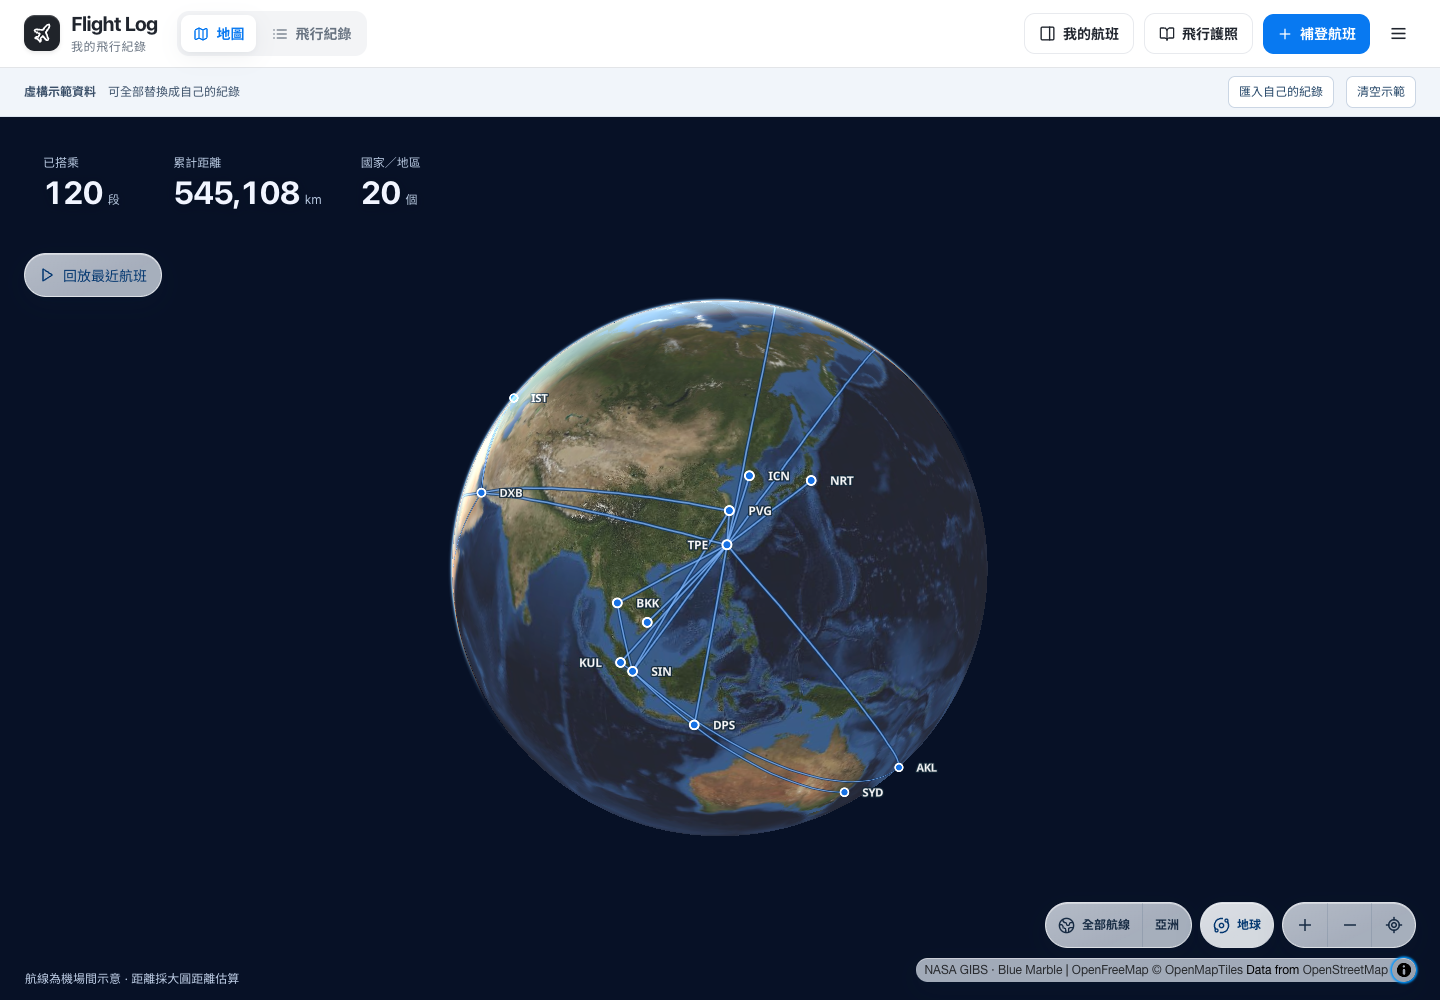
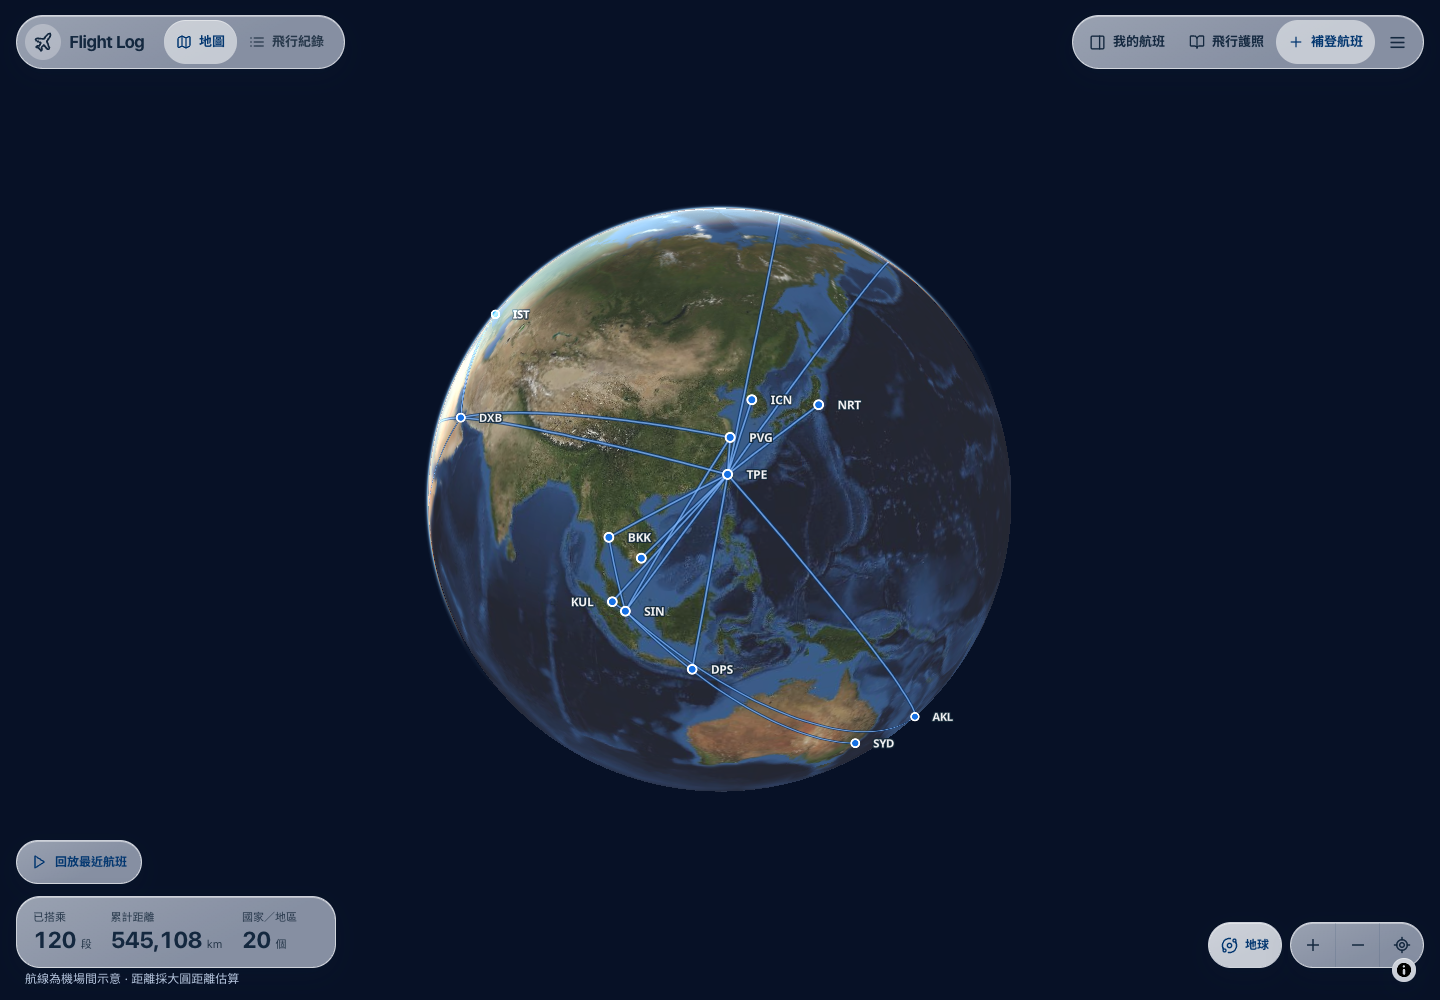
Refresh README with current UI, new media, CI and demo database guard
- English README is now the default, Chinese moved to README.zh-TW.md
- Retake all five media files from the live demo at the current glass UI
- Journey GIF now shows EK302 Dubai to Shanghai at 8x
- check-demo-deploy refuses a demo D1 id listed in DEMO_FORBIDDEN_D1_IDS
- Add GitHub Actions CI running typegen, check, test and build

diff --git a/README.md b/README.md
@@ -1,31 +1,57 @@
 # Flight Log
 
-把歷年航班變成可以回放、收藏與分享的旅行地圖
+Turn years of flights into a map you can replay, keep and share
 
-[線上示範](https://flights.vibeencode.dev/) · [旅程放映](https://flights.vibeencode.dev/journey/) · [開始使用](#先在本機跑起來) · [English](README.en.md)
+[Live demo](https://flights.vibeencode.dev/) · [Journey replay](https://flights.vibeencode.dev/journey/) · [Run it](#run-it) · [Self-host](docs/SELF-HOST.md) · [繁體中文](README.zh-TW.md)
 
-免安裝即可瀏覽五年、120 段虛構航班。公開示範站與私人版本分開，所有旅行紀錄都是假資料；匯入或編輯只保存在目前瀏覽器，不會上傳到示範站或影響其他訪客
+![Five years of fictional travel, 120 flights across 20 countries and regions, shown on a globe](docs/media/world-map.png)
 
-![Flight Log 五年虛構示範，120 段航班與 20 個國家／地區](docs/media/world-map.png)
+![Journey replay following EK302 from Dubai to Shanghai at 8x](docs/media/journey.gif)
 
-![飛機與鏡頭同步回放的實際操作](docs/media/journey.gif)
+Everything above is synthetic. The demo site ships 120 fictional flights, and anything you import stays in your own browser, so the demo server never sees your trips
 
-畫面使用合成示範資料。GIF 來自實際網站錄製，沒有使用 Flighty 的圖片或影片
+## Why I built this
 
-旅行地圖採 MapLibre、OpenFreeMap 與 NASA 地球影像。旅程放映會自動播放歷史航班，鏡頭跟隨飛機，以單一按鈕循環切換 1×、2×、4×、8×；搜尋城市、機場、日期或班號即可切換。播放與倍速整合成精簡玻璃控制列，點航線即可搜尋切換，也能完全收起
+I had seven years of flights buried in Trip.com confirmation emails and no way to see them as one picture. Flighty does this beautifully for live tracking, but my history was the part I cared about, and I wanted it on a page I own rather than inside someone else's account
 
-另外有獨立飛行清單、年度／累計護照、補登、更正與 JSON 備份。React / TypeScript / Cloudflare Workers + D1
+The first version read my own inbox and drew the routes. That turned out to be the easy part. The hard part was keeping real travel data out of a public repository while still having something worth showing, so the project split into separate lines. A private site holds my real log. This open source version runs on a fully synthetic dataset, and a cloud version with accounts is still in progress. Everything in this repository comes from the synthetic line
 
-**這是旅行紀錄工具。沒有即時航班查詢、GPS 航跡、航空公司訂位或自動跨裝置同步。** 非 Flighty 官方產品；不含其程式、圖片、字型或商標素材。
+One limitation stayed on purpose. There is no Gmail button inside the app, because holding mail credentials in a hobby project is a bad trade. Import goes through an AI assistant you already trust with your inbox, and the app only ever sees the JSON you decide to hand it
 
-## 四個步驟
+## What it does
 
-1. **下載 GitHub 專案／範本 ZIP。** Node 24，執行下方指令即可先看到五年虛構旅程。
-2. **連結自己的 Gmail。** 在支援 Gmail 的 AI 助手中授權，再使用 [Gmail 匯入流程](docs/GMAIL-IMPORT.md) 中的完整提示詞整理 Trip.com 訂單。網站本身不持有 Gmail 權限；目前沒有內建 Google 登入按鈕。
-3. **匯入整理結果。** 本機校驗、去重、排除取消、確認搭乘，從網頁備份功能導入。[資料格式](docs/IMPORT-FORMAT.md)
-4. **建立自己的網址。** 部署到自己 Cloudflare 帳號的 workers.dev，或接上自己的子網域。[部署步驟](docs/SELF-HOST.md)
+![Phone view of the travel map with the stats card and replay button](docs/media/mobile-map.png)
 
-## 先在本機跑起來
+Travel map on a globe or a flat map, with great circle routes between every airport you have flown
+
+![Journey replay paused over the Himalayas with the glass control bar](docs/media/journey.png)
+
+Journey replay that follows the aircraft, with one button cycling 1x, 2x, 4x and 8x, and a search box that takes an airport or a flight number
+
+![Passport card listing 120 flights, 545,108 km and 20 countries with flags](docs/media/passport.png)
+
+A passport card you can save as an image, per year or all time, with flags and distance
+
+Also: a separate flight list where you add or correct rows, JSON backup and restore, and a demo banner that makes clear which rows are fictional
+
+## How it works
+
+```mermaid
+flowchart LR
+  A[Booking emails] -->|AI assistant with Gmail access| B[flights.reviewed.json]
+  B -->|npm run import:prepare| C[flights.json + report.json + seed.sql]
+  C -->|Restore in browser| D[(localStorage)]
+  C -->|Optional: seed| E[(Cloudflare D1 flight_state)]
+  D --> F[React app]
+  E -->|GET /api/state| F
+  F --> G[MapLibre globe, journey replay, passport]
+```
+
+The front end is React and TypeScript on Vite. The worker is a Cloudflare Worker with one D1 table, `flight_state`, holding a single JSON payload that is read only over HTTP. Map tiles come from OpenFreeMap and NASA GIBS, so no map API key is needed. Edits never leave the browser, which is why there is no write API and no account system
+
+## Run it
+
+Node 24 is required
 
 ```sh
 git clone https://github.com/Hugo6991/flight-log.git
@@ -36,28 +62,48 @@ npm run setup:local
 npm start
 ```
 
-若使用 ZIP，進入解壓出的 `flight-log-main` 目錄，從 `nvm use` 開始執行，略過 `git clone` 和 `cd flight-log`。
+Open http://127.0.0.1:4173 and you will see the 120 fictional flights. `setup:local` builds the app and creates an empty local database, and both servers listen on localhost only
 
-開啟 http://127.0.0.1:4173 。兩個服務都只監聽本機。setup:local 建立空資料庫，不需要你的郵件或部署帳號。關閉終端機可停止服務。
+## Add your own flights
 
-首次開啟會直接顯示 120 段虛構航班，涵蓋 20 個國家／地區與六洲，以桃園、上海為主要基地。日期固定在 2021 年 9 月 17 日至 2026 年 9 月 16 日，每個年度區間 24 段、每季 6 段。班號與航線有航空公司公開來源，搭乘日期與狀態全部虛構，與作者的旅行紀錄無關。[完整行程與來源](data/example/README.md)
+1. In an AI assistant that has a Gmail connector, paste the prompt from [docs/GMAIL-IMPORT.md](docs/GMAIL-IMPORT.md). It reads your booking emails and writes `data/local/flights.reviewed.json` in the [import format](docs/IMPORT-FORMAT.md)
+2. Run `npm run import:prepare -- data/local/flights.reviewed.json`. This validates dates and airport codes, removes duplicates, flags changed or cancelled segments and strips email subjects and order ids
+3. In the app, open the menu and choose restore backup, then pick the generated `flights.json`. Your flights replace the demo in this browser only
 
-畫面上方選「匯入自己的紀錄」即可用自己的 JSON 整份取代，或選「清空示範」從空白開始。清空後重新整理仍保持空白；混合資料只移除示範航班。匯入和清空前保留一份復原備份，可從「更多功能 → 復原上次還原」取回。匯入自己的資料前仍建議先匯出備份
+`data/local/` is ignored by git, so your records never end up in a commit
 
-地圖、飛行清單、旅程放映與護照圖片都會標示虛構資料。已有瀏覽器紀錄時直接使用既有資料，不會自動加入示範；遠端讀取失敗會顯示錯誤。要重新載入示範，可還原 `data/example/demo.json`
+## Self-host
 
-## 資料放哪裡
+```sh
+npx wrangler login
+npx wrangler d1 create my-flight-log
+# paste database_id into wrangler.jsonc, keep the binding named DB
+npx wrangler d1 migrations apply my-flight-log --remote
+npm run deploy
+```
 
-| 資料 | 位置 | 可否提交到 GitHub |
+You get a `workers.dev` URL with an empty public source and the demo flights in the browser. Seeding D1 with your own `seed.sql` makes those flights readable by anyone with the link, so [docs/SELF-HOST.md](docs/SELF-HOST.md) walks through that decision, custom domains and backups
+
+## Data and privacy
+
+| Data | Where it lives | In git |
 | --- | --- | --- |
-| 程式、機場字典、空白／合成範例 | src / shared / public / data/example | 可以 |
-| 原始郵件、訂單、票價、匯入校對表 | data/local（已忽略） | 不要 |
-| 網頁上的編輯與確認 | 各裝置的 localStorage | 不會自動同步到伺服器 |
-| 公開初始航班 | 自己的 D1 | 若匯入則任何訪客可讀取 |
+| Code, airport dictionary, synthetic sample | `src`, `shared`, `public`, `data/example` | Yes |
+| Your emails, orders, prices, review sheets | `data/local` | Never |
+| Edits made in the app | Each browser's localStorage | No |
+| Public starting flights | Your own D1 | Only if you seed it |
 
-你可以部署**空的公開來源**，只在自己的瀏覽器還原資料，這樣伺服器不存個人行程。若把 seed 匯入遠端 D1，日期、航線、班號即成為公開初始資料；隱藏按鈕或 noindex 不會提供隱私保護。需要登入保護時請另設 Cloudflare Access。
+The 120 demo flights were generated by `scripts/generate-demo.mjs`. Flight numbers and routes have public airline sources, while every date and every flown status is invented, so the sample proves nothing about anyone's travel. See [data/example/README.md](data/example/README.md) for the full ledger
 
-## 開發與貢獻
+## Status
+
+| Works today | Not here yet |
+| --- | --- |
+| Globe map, great circle routes, journey camera, flight list, passport image | Live flight tracking, radar tracks |
+| Synthetic demo, assistant driven Gmail import, import validation | In app Gmail sign in, automatic inbox reading |
+| Per browser edits, JSON backup, self hosting on Cloudflare | Accounts, cross device sync, hosted plans |
+
+## Development
 
 ```sh
 npm run check
@@ -65,32 +111,10 @@ npm test
 npm run build
 ```
 
-功能更動附測試和手機／桌面檢查；只使用合成資料建立 issue、PR、截圖。不要把郵件、訂位代碼、姓名或 credentials 貼到 issue。
+See [CONTRIBUTING.md](CONTRIBUTING.md) and [SECURITY.md](SECURITY.md), plus [THIRD_PARTY_NOTICES.md](THIRD_PARTY_NOTICES.md) for map data. Use synthetic data in issues and screenshots, and in tests
 
-本次示範的[驗證結果與畫面](docs/DEMO-VERIFICATION.md)包含資料完整性、替換與復原、桌面及手機操作
+Design references: [TripTrail](https://github.com/Fangyuan025/triptrail) for journey presentation, [AirTrail](https://github.com/johanohly/AirTrail) for import docs, [Jetlog](https://github.com/pbogre/jetlog) for self hosting and privacy notes. No code was copied from them. Flighty is a visual reference only and is not affiliated
 
-- [參與開發](CONTRIBUTING.md)
-- [安全與私人資料](SECURITY.md)
-- [操作與資料限制](docs/IMPORT-FORMAT.md)
-- [部署與備份](docs/SELF-HOST.md)
-- [公開示範站維護](docs/PUBLIC-DEMO.md)
-- [Gmail 搜尋和整理提示詞](docs/GMAIL-IMPORT.md)
-- [元件／設計參考](docs/DESIGN-REFERENCES.md)
-- [第三方資料與授權](THIRD_PARTY_NOTICES.md)
+MIT License. It covers the original code and the synthetic sample, not your emails, your travel records, airline source pages, map services or third party brands
 
-MIT License。原創程式與合成示範資料均可依 MIT 使用及修改；授權不包含你的郵件、個人旅行紀錄、航空公司來源頁面、第三方地圖服務或 Flighty 品牌。
-
-
-## 功能邊界與下一步
-
-| 現在可以 | 尚未提供 |
-| --- | --- |
-| 地圖、大圓航線、旅程鏡頭、獨立清單、PNG 護照 | 真實雷達航跡、即時航班追蹤 |
-| 合成 JSON 示範、助手整理 Gmail、匯入校驗 | 網站內 Gmail 授權、自動讀信、通用航空公司解析 |
-| 各瀏覽器編輯、JSON 備份、自己部署 | 帳戶、跨裝置同步、付費代管 |
-
-此儲存庫是自行部署版本。未完成功能不包含在目前安裝體驗內
-
-## 設計與開源參考
-
-參考 [TripTrail](https://github.com/Fangyuan025/triptrail) 的旅程呈現與影片展示方式、[AirTrail](https://github.com/johanohly/AirTrail) 的資料匯入說明，以及 [Jetlog](https://github.com/pbogre/jetlog) 的安裝與資料隱私說明。未複製上述專案的程式碼；Flighty 是視覺與互動研究參考，並非合作或關聯產品
+Built by one person with a team of agents. Product and design decisions are mine; agents write the code and I review what ships

diff --git a/README.zh-TW.md b/README.zh-TW.md
@@ -1,0 +1,96 @@
+# Flight Log
+
+把歷年航班變成可以回放、收藏與分享的旅行地圖
+
+[線上示範](https://flights.vibeencode.dev/) · [旅程放映](https://flights.vibeencode.dev/journey/) · [開始使用](#先在本機跑起來) · [English](README.md)
+
+免安裝即可瀏覽五年、120 段虛構航班。公開示範站與私人版本分開，所有旅行紀錄都是假資料；匯入或編輯只保存在目前瀏覽器，不會上傳到示範站或影響其他訪客
+
+![Flight Log 五年虛構示範，120 段航班與 20 個國家／地區](docs/media/world-map.png)
+
+![飛機與鏡頭同步回放的實際操作](docs/media/journey.gif)
+
+畫面使用合成示範資料。GIF 來自實際網站錄製，沒有使用 Flighty 的圖片或影片
+
+旅行地圖採 MapLibre、OpenFreeMap 與 NASA 地球影像。旅程放映會自動播放歷史航班，鏡頭跟隨飛機，以單一按鈕循環切換 1×、2×、4×、8×；搜尋城市、機場、日期或班號即可切換。播放與倍速整合成精簡玻璃控制列，點航線即可搜尋切換，也能完全收起
+
+另外有獨立飛行清單、年度／累計護照、補登、更正與 JSON 備份。React / TypeScript / Cloudflare Workers + D1
+
+**這是旅行紀錄工具。沒有即時航班查詢、GPS 航跡、航空公司訂位或自動跨裝置同步。** 非 Flighty 官方產品；不含其程式、圖片、字型或商標素材。
+
+## 四個步驟
+
+1. **下載 GitHub 專案／範本 ZIP。** Node 24，執行下方指令即可先看到五年虛構旅程。
+2. **連結自己的 Gmail。** 在支援 Gmail 的 AI 助手中授權，再使用 [Gmail 匯入流程](docs/GMAIL-IMPORT.md) 中的完整提示詞整理 Trip.com 訂單。網站本身不持有 Gmail 權限；目前沒有內建 Google 登入按鈕。
+3. **匯入整理結果。** 本機校驗、去重、排除取消、確認搭乘，從網頁備份功能導入。[資料格式](docs/IMPORT-FORMAT.md)
+4. **建立自己的網址。** 部署到自己 Cloudflare 帳號的 workers.dev，或接上自己的子網域。[部署步驟](docs/SELF-HOST.md)
+
+## 先在本機跑起來
+
+```sh
+git clone https://github.com/Hugo6991/flight-log.git
+cd flight-log
+nvm use
+npm ci
+npm run setup:local
+npm start
+```
+
+若使用 ZIP，進入解壓出的 `flight-log-main` 目錄，從 `nvm use` 開始執行，略過 `git clone` 和 `cd flight-log`。
+
+開啟 http://127.0.0.1:4173 。兩個服務都只監聽本機。setup:local 建立空資料庫，不需要你的郵件或部署帳號。關閉終端機可停止服務。
+
+首次開啟會直接顯示 120 段虛構航班，涵蓋 20 個國家／地區與六洲，以桃園、上海為主要基地。日期固定在 2021 年 9 月 17 日至 2026 年 9 月 16 日，每個年度區間 24 段、每季 6 段。班號與航線有航空公司公開來源，搭乘日期與狀態全部虛構，與作者的旅行紀錄無關。[完整行程與來源](data/example/README.md)
+
+畫面上方選「匯入自己的紀錄」即可用自己的 JSON 整份取代，或選「清空示範」從空白開始。清空後重新整理仍保持空白；混合資料只移除示範航班。匯入和清空前保留一份復原備份，可從「更多功能 → 復原上次還原」取回。匯入自己的資料前仍建議先匯出備份
+
+地圖、飛行清單、旅程放映與護照圖片都會標示虛構資料。已有瀏覽器紀錄時直接使用既有資料，不會自動加入示範；遠端讀取失敗會顯示錯誤。要重新載入示範，可還原 `data/example/demo.json`
+
+## 資料放哪裡
+
+| 資料 | 位置 | 可否提交到 GitHub |
+| --- | --- | --- |
+| 程式、機場字典、空白／合成範例 | src / shared / public / data/example | 可以 |
+| 原始郵件、訂單、票價、匯入校對表 | data/local（已忽略） | 不要 |
+| 網頁上的編輯與確認 | 各裝置的 localStorage | 不會自動同步到伺服器 |
+| 公開初始航班 | 自己的 D1 | 若匯入則任何訪客可讀取 |
+
+你可以部署**空的公開來源**，只在自己的瀏覽器還原資料，這樣伺服器不存個人行程。若把 seed 匯入遠端 D1，日期、航線、班號即成為公開初始資料；隱藏按鈕或 noindex 不會提供隱私保護。需要登入保護時請另設 Cloudflare Access。
+
+## 開發與貢獻
+
+```sh
+npm run check
+npm test
+npm run build
+```
+
+功能更動附測試和手機／桌面檢查；只使用合成資料建立 issue、PR、截圖。不要把郵件、訂位代碼、姓名或 credentials 貼到 issue。
+
+本次示範的[驗證結果與畫面](docs/DEMO-VERIFICATION.md)包含資料完整性、替換與復原、桌面及手機操作
+
+- [參與開發](CONTRIBUTING.md)
+- [安全與私人資料](SECURITY.md)
+- [操作與資料限制](docs/IMPORT-FORMAT.md)
+- [部署與備份](docs/SELF-HOST.md)
+- [公開示範站維護](docs/PUBLIC-DEMO.md)
+- [Gmail 搜尋和整理提示詞](docs/GMAIL-IMPORT.md)
+- [元件／設計參考](docs/DESIGN-REFERENCES.md)
+- [第三方資料與授權](THIRD_PARTY_NOTICES.md)
+
+MIT License。原創程式與合成示範資料均可依 MIT 使用及修改；授權不包含你的郵件、個人旅行紀錄、航空公司來源頁面、第三方地圖服務或 Flighty 品牌。
+
+
+## 功能邊界與下一步
+
+| 現在可以 | 尚未提供 |
+| --- | --- |
+| 地圖、大圓航線、旅程鏡頭、獨立清單、PNG 護照 | 真實雷達航跡、即時航班追蹤 |
+| 合成 JSON 示範、助手整理 Gmail、匯入校驗 | 網站內 Gmail 授權、自動讀信、通用航空公司解析 |
+| 各瀏覽器編輯、JSON 備份、自己部署 | 帳戶、跨裝置同步、付費代管 |
+
+此儲存庫是自行部署版本。未完成功能不包含在目前安裝體驗內
+
+## 設計與開源參考
+
+參考 [TripTrail](https://github.com/Fangyuan025/triptrail) 的旅程呈現與影片展示方式、[AirTrail](https://github.com/johanohly/AirTrail) 的資料匯入說明，以及 [Jetlog](https://github.com/pbogre/jetlog) 的安裝與資料隱私說明。未複製上述專案的程式碼；Flighty 是視覺與互動研究參考，並非合作或關聯產品

diff --git a/docs/media/README.md b/docs/media/README.md
@@ -1,17 +1,17 @@
 # 示範素材
 
-2026 年 9 月 17 日從公開版的空白本機資料庫與乾淨瀏覽器實際擷取
+2026 年 10 月 18 日從公開示範站 flights.vibeencode.dev 實際擷取，介面為 9 月 18 日之後的玻璃控制列版本
 
 使用 `data/example/demo.json` 的 120 段虛構航班，涵蓋五年、20 個國家／地區與六洲。沒有使用個人旅行紀錄
 
 | 素材 | 實際來源 |
 | --- | --- |
-| world-map.png | 1440 × 1000 桌面旅行地圖，顯示完整示範統計 |
-| mobile-map.png | 390 × 844 手機旅行地圖，顯示匯入及清空入口 |
-| journey.png | 1280 × 800 旅程放映，EK261 杜拜至聖保羅，日期虛構 |
-| journey.gif | 同一航段連續 8 秒的實際錄影，以 1 倍速回放，6 fps、720px 寬輸出 |
-| passport.png | 從網頁「儲存護照圖片」實際下載的 PNG，保留虛構示範標記 |
+| world-map.png | 1440 × 1000 桌面旅行地圖，地球模式，顯示完整示範統計 |
+| mobile-map.png | iPhone 14 尺寸的手機旅行地圖，由 3 倍解析度縮到 780px 寬 |
+| journey.png | 1280 × 800 旅程放映，EK302 杜拜至上海，8 倍速，日期虛構 |
+| journey.gif | 同一航段連續 8 秒的實際錄影，8 倍速回放，6 fps、640px 寬輸出 |
+| passport.png | 從網頁「儲存護照圖片」實際下載的 PNG，縮到 1080px 寬，保留虛構示範標記 |
 
-截圖沒有額外繪製 UI，GIF 沒有加速或以靜態畫面模擬飛行。網站實際動畫不受 GIF 幀率限制
+擷取方式：Playwright 加軟體 WebGL（SwiftShader），等地圖載入完成才截圖；GIF 由 Playwright 錄影經 ffmpeg 取最後 8 秒。截圖沒有額外繪製 UI，GIF 沒有以靜態畫面模擬飛行。網站實際動畫不受 GIF 幀率限制
 
 README 的桌面地圖與放映素材展開右下角圖資署名。NASA GIBS、OpenFreeMap、OpenMapTiles、OpenStreetMap 與護照使用的 Natural Earth 說明見根目錄 THIRD_PARTY_NOTICES.md

diff --git a/docs/PUBLIC-DEMO.md b/docs/PUBLIC-DEMO.md
@@ -43,3 +43,7 @@ npm run deploy:demo
 維護者的 `.env.demo` 設定 `VITE_STORAGE_SCOPE_ORIGIN=https://flights.vibeencode.dev`，讓曾作為個人站的網址使用新的瀏覽器儲存空間。舊紀錄保留原位，不會被載入展示畫面或刪除；其他原有網址仍沿用原儲存空間
 
 網域移轉可在 `wrangler.demo.jsonc` 的 `vars` 指定 `BROWSER_MIGRATION_SOURCE_ORIGIN` 與 `BROWSER_MIGRATION_TARGET_ORIGIN`。來源站的 `/browser-migration/` 僅接受指定目標 origin 的父視窗，透過 `postMessage` 將同一瀏覽器的舊紀錄交給新站。Worker 不接收航班內容，未設定或 origin 不符時此端點回傳 404。此功能不提供跨装置同步
+
+## 示範資料庫不得是個人資料庫
+
+`npm run deploy:demo` 會先跑 `scripts/check-demo-deploy.mjs`。在 `.env.demo`（已排除於 Git）加一行 `DEMO_FORBIDDEN_D1_IDS=<個人 D1 的 database_id>`，多個用逗號分隔；示範設定檔的 `database_id` 若等於其中任何一個，部署會直接中止。沒有設定時只會印出警告，不會擋下部署
